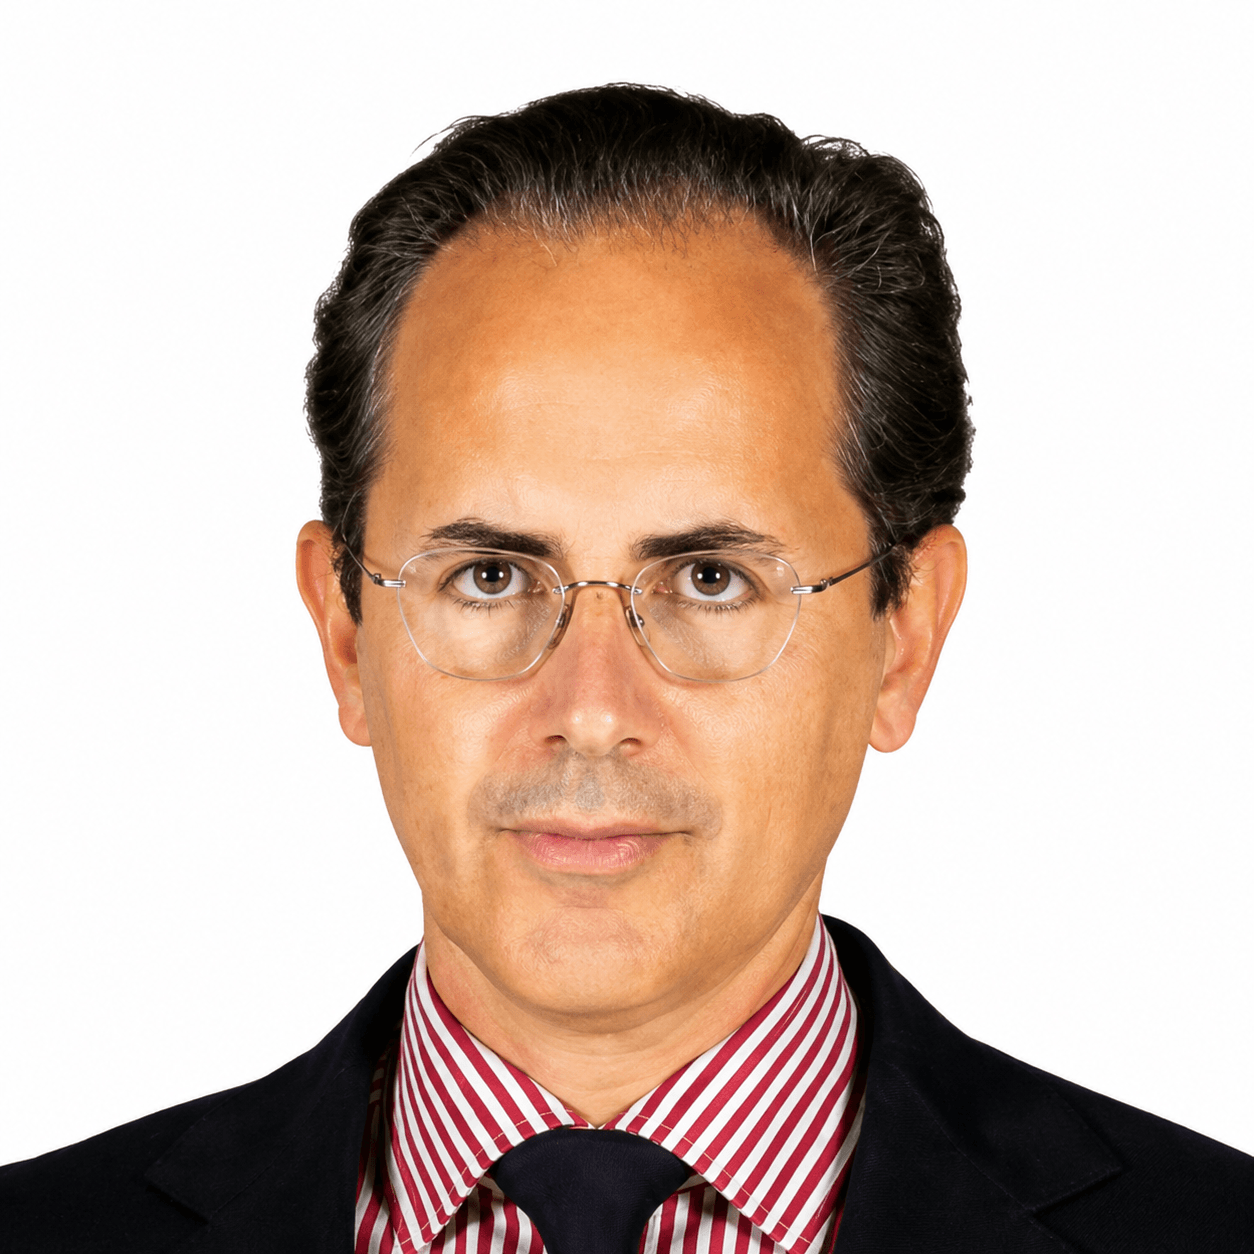
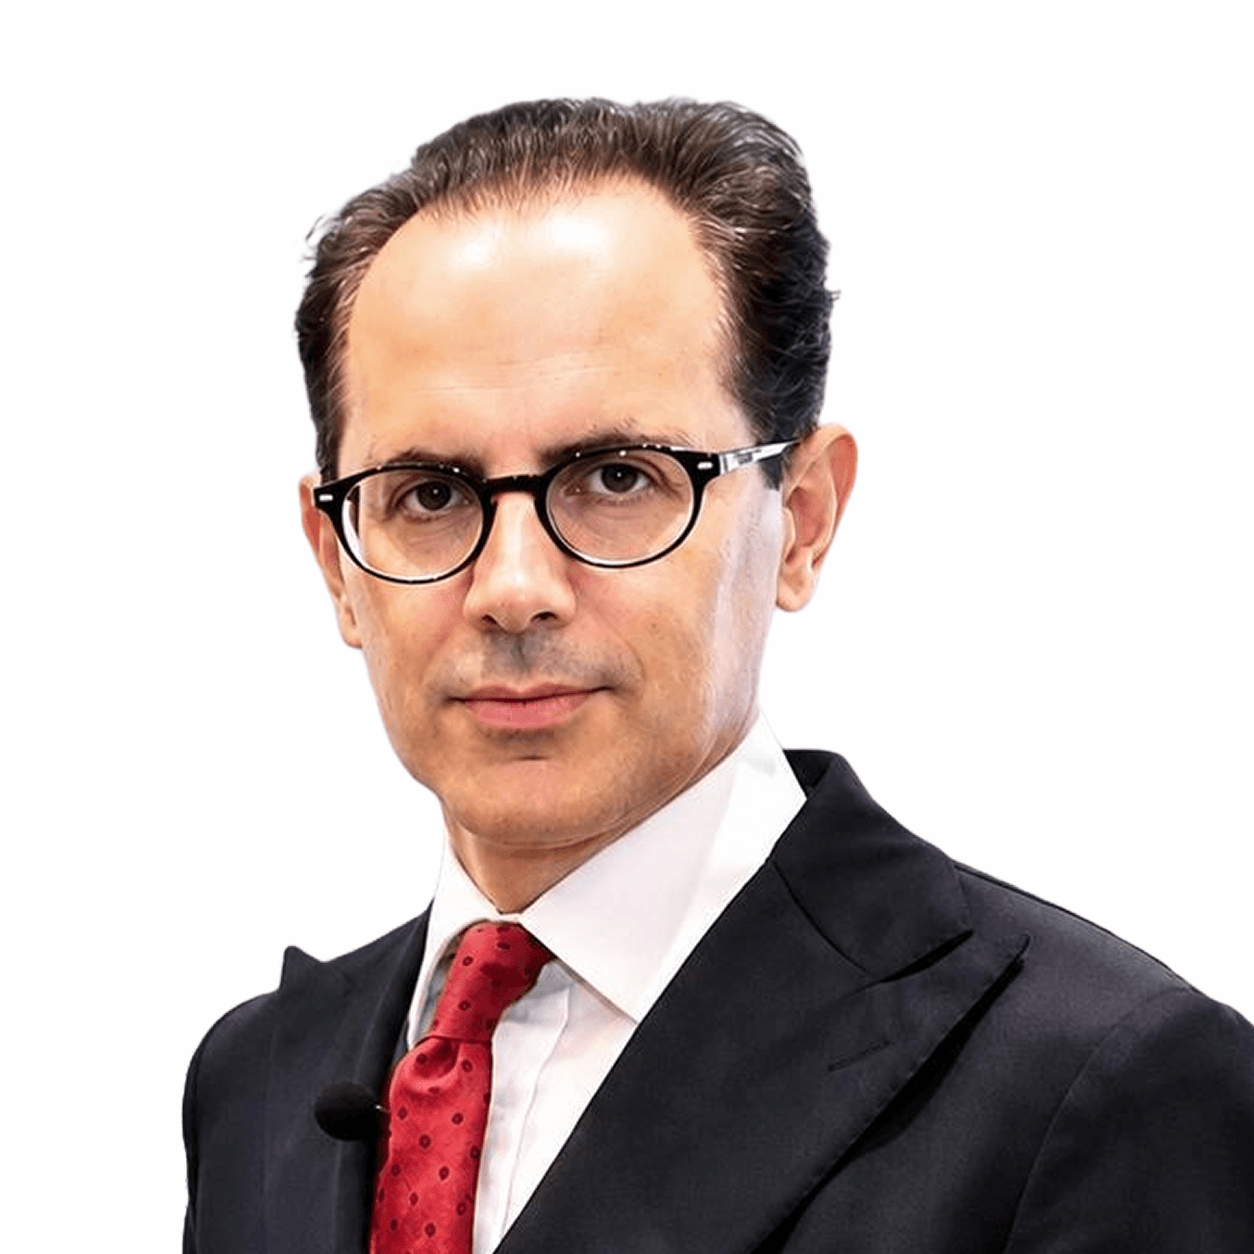
feat: update footer links and add bioKey for team member Roberto Sambuco

diff --git a/sections/Team.jsx b/sections/Team.jsx
@@ -4,7 +4,7 @@ import TeamMember from "@/components/TeamMember";
 // Names, initials and roles are proper nouns / already in English, so they live
 // here as the single source of truth. Bios are translated and looked up by key.
 const management = [
-  { ini: "RS", name: "Roberto Sambuco", role: "CEO", img: "/images/Roberto-Sambuco.png" },
+  { ini: "RS", name: "Roberto Sambuco", role: "CEO", bioKey: "sambuco", img: "/images/Roberto-Sambuco.png" },
   { ini: "MC", name: "Marialiliana Conte", role: "CFO", bioKey: "conte", img: "/images/Marialiliana-Conte.png" },
   // role is locale-aware: IT shows "Gestione dei fondi", EN "Fund Manager".
   { ini: "TS", name: "Teresa Sanseverino", role: { it: "Gestione dei fondi", en: "Fund Manager" }, img: "/images/Teresa-Sanseverino.png" },

diff --git a/components/Footer.jsx b/components/Footer.jsx
@@ -33,9 +33,9 @@ export default async function Footer() {
             <ul>
               <li><Link href="/#societa">{t("linkSocieta")}</Link></li>
               <li><Link href="/#fondi">{t("linkFondi")}</Link></li>
-              <li><Link href="/#esg">{t("linkEsg")}</Link></li>
               <li><Link href="/#team">{t("linkTeam")}</Link></li>
               <li><Link href="/portfolio">{t("linkPortfolio")}</Link></li>
+              <li><Link href="/#esg">{t("linkEsg")}</Link></li>
             </ul>
           </nav>
 
